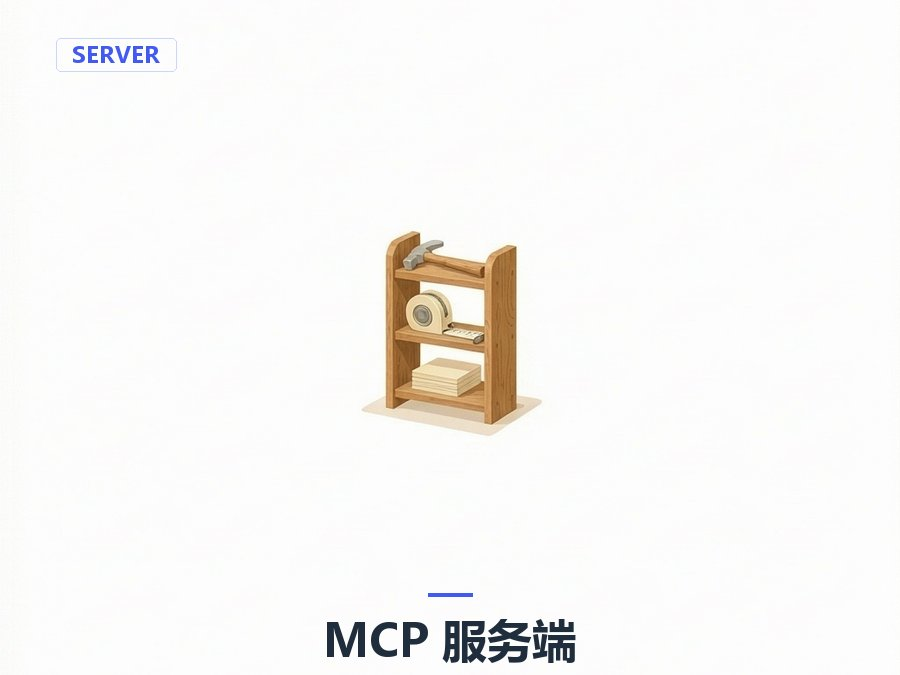
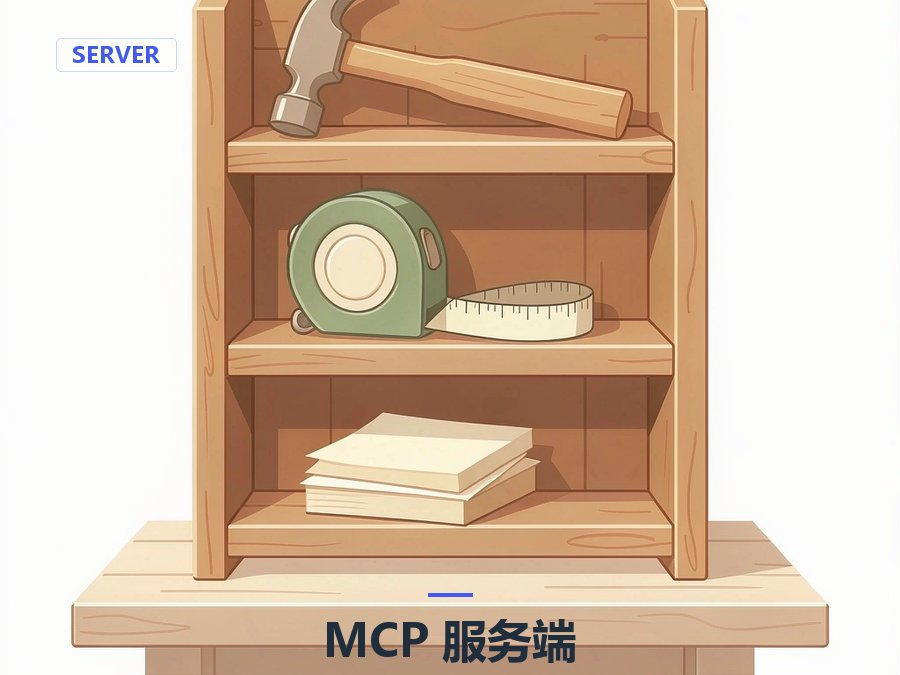
fix(tools): 封面模板改为主体突出、四周留可见背景边
原 STYLE 写 "generous empty space / wide margins on all sides"，加上 22 条条目自带的
"small subject centered with huge empty space"，模型一律把主体缩成画面中心一个小点，
四周全白。改为「plain light background with a clear band of background color around
the subject / subject centered and prominent with a balanced margin」，并清掉条目里
盖过 STYLE 的同类表述。

同时把默认生图模型换成 workbuddy/hunyuan-image-alpha（workbuddy-ai/hy-image-3.5 额度耗尽）。
重出 mcp-server / virtual-threads / multi-agent-worktree 三张封面。

diff --git a/tools/magpie-covers.py b/tools/magpie-covers.py
@@ -35,11 +35,12 @@ QUALITY = 85
 # 文字由脚本在本地合成（不交给模型画）——本地叠字字形一定正确，不会错字。
 STYLE = ('warm natural lifelike colors, earthy palette of wood brown, cream, beige, sage green, '
          'terracotta and soft warm whites, a soft cohesive palette, '
-         'clean bright background with generous empty space around the subject, '
+         'clean bright light background, the illustration set on a plain light background '
+         'with a clear band of background color around the subject on all four sides, '
          'minimal flat vector illustration, concrete recognizable objects in a clear real-world scene '
          '(a machine, a device, a tool, physical props), never abstract node graphs, arrows, or color-block patterns, '
-         'zoomed out wide shot, entire composition fully visible '
-         'inside the frame, centered with wide margins on all sides, nothing cropped, '
+         'clear wide composition, the subject centered and prominent with a balanced margin, '
+         'entire composition fully visible inside the frame, centered, nothing cropped, '
          'no full-image blue or purple wash, no cold cyan tones, no neon colors, no muddy gray, '
          'no 3d render, no photorealistic, no text, no letters, no watermark, no signature')
 
@@ -115,36 +116,36 @@ TEXTS = {
 }
 
 PROMPTS = {
-    'pi-agent-loop':    'minimal composition, a single small subject centered with very large empty margins on all four sides, a small golden gear with a smooth flywheel driving a tiny chain, an engine in motion concept, warm wood tones and cream background, ' + STYLE,
-    'pi-model-layer':    'minimal composition, a single small subject centered with very large empty margins on all four sides, a translator figure at a small desk working on one document, multi-format translation concept, warm wood tones and cream background, ' + STYLE,
+    'pi-agent-loop':    'minimal composition, a small golden gear with a smooth flywheel driving a tiny chain, an engine in motion concept, warm wood tones and cream background, ' + STYLE,
+    'pi-model-layer':    'minimal composition, a translator figure at a small desk working on one document, multi-format translation concept, warm wood tones and cream background, ' + STYLE,
     'pi-tool-pipeline':    'flat vector illustration of a neat workbench with a simple robotic arm holding a wrench above a small workpiece, a few hand tools (screwdriver, wrench, pliers) neatly arranged beside it, tool use concept, warm wood workbench tones, ' + STYLE,
     'pi-message-system':    'flat vector illustration of a single open envelope floating in the center of a plain background, slightly open to reveal a richly detailed inner document with colorful stamps and handwritten notes, a single centered subject with generous empty space around all edges, warm cream paper tones, ' + STYLE,
-    'pi-context-engineering':    'minimal composition, a single small subject centered with very large empty margins on all four sides, a paper funnel pressing a stack of loose documents down into one small neat summary card, context compression concept, warm cream paper tones, ' + STYLE,
-    'pi-session-tree':    'minimal composition, a small subject centered with huge empty space on all four sides, nothing near the frame edges, a single bare stylized tree with symmetrically branching wooden branches and small round warm-colored fruits (amber, terracotta, olive) hanging at each branch tip, growth and branching concept, on a pure white background, bright white, ' + STYLE,
-    'pi-extension-events':    'minimal composition, a small subject centered with huge empty space on all four sides, nothing near the frame edges, a small vintage wooden radio with a few hanging amber light bulbs connected by thin wires, signal and connection concept, warm amber glow, on a pure white background, bright white, ' + STYLE,
-    'pi-tui-rendering':    'minimal composition, a single small subject centered with very large empty margins on all four sides, a small old-style desktop computer with a green-screen display showing neat monochrome text lines on it, warm beige retro computer tones, ' + STYLE,
-    'pi-policy-gate':    'minimal composition, a small subject centered with huge empty space on all four sides, nothing near the frame edges, a sturdy small wooden gate with a brass padlock and a stack of stamped paper passes on a side table, access control and audit concept, warm brass and wood tones, on a pure white background, bright white, ' + STYLE,
-    'spring-filter-interceptor':    'minimal composition, a small subject centered with huge empty space on all four sides, nothing near the frame edges, a small wooden sieve with a mesh screen beside a small wooden turnstile gate, filtering and gating concept, warm wood and brass tones, on a pure white background, bright white, ' + STYLE,
-    'json-family-protocols':    'minimal composition, a small subject centered with huge empty space on all four sides, nothing near the frame edges, a wooden shelf with five small differently shaped glass jars, each jar holding a different kind of warm-colored small items (paper slips, wooden beads, brass gears, rubber stamps), sorting and comparing concept, on a pure white background, bright white, ' + STYLE,
-    'agent-state-machines':    'minimal composition, a small subject centered with huge empty space on all four sides, nothing near the frame edges, a small mechanical relay control panel with a few levers and warm indicator lights, deterministic control concept, on a pure white background, bright white, ' + STYLE,
-    'ai-critical-thinking':    'minimal composition, a small subject centered with huge empty space on all four sides, nothing near the frame edges, a person sitting at a small desk reading an open book under a warm desk lamp, deep thinking concept, warm wood desk tones, on a pure white background, bright white, ' + STYLE,
-    'cover-code-review':    'minimal composition, a small subject centered with huge empty space on all four sides, nothing near the frame edges, a paper checklist with a magnifying glass and a red rubber stamp resting on it, review concept, warm cream paper tones, on a pure white background, bright white, ' + STYLE,
-    'super-agent-designs':    'minimal composition, a small subject centered with huge empty space on all four sides, nothing near the frame edges, a small self-driving rover with sensors on a little track, autonomous system concept, warm metal and wood tones, on a pure white background, bright white, ' + STYLE,
-    'agents-going-async':    'minimal composition, a small subject centered with huge empty space on all four sides, nothing near the frame edges, a small control desk with one big screen and one small worker device side by side connected by a cable, coordination concept, warm wood desk tones, on a pure white background, bright white, ' + STYLE,
-    'design-patterns-creational':    'minimal composition, a small subject centered with huge empty space on all four sides, nothing near the frame edges, a small factory machine with a conveyor belt carrying small products off the end, creation concept, warm metal and wood tones, on a pure white background, bright white, ' + STYLE,
-    'agent-memory-components':    'minimal composition, a small subject centered with huge empty space on all four sides, nothing near the frame edges, a small cute robot at a small desk sorting a stack of memory cards into a wooden filing cabinet, agent memory organizing concept, warm wood cabinet tones and warm metal robot tones, on a pure white background, bright white, ' + STYLE,
-    'design-patterns-behavioral':    'minimal composition, a small subject centered with huge empty space on all four sides, nothing near the frame edges, a row of small brown birds perched side by side on a short wooden branch, coordinated group concept, warm wood branch tones, on a pure white background, bright white, ' + STYLE,
-    'cover-binary':    'minimal composition, a small subject centered with huge empty space on all four sides, nothing near the frame edges, a small brass balance scale with two pans holding tiny weights, searching and comparing concept, warm brass and wood tones, on a pure white background, bright white, ' + STYLE,
-    'cover-cipherlens':    'minimal composition, a small subject centered with huge empty space on all four sides, nothing near the frame edges, a small brass padlock with a key and a wooden lockbox, security concept, warm brass and wood tones, on a pure white background, bright white, ' + STYLE,
-    'cover-kmp':    'minimal composition, a small subject centered with huge empty space on all four sides, nothing near the frame edges, a magnifying glass examining a long strip of paper with small pattern marks, pattern matching concept, warm cream paper tones, on a pure white background, bright white, ' + STYLE,
-    'cover-quicksort':    'minimal composition, a small subject centered with huge empty space on all four sides, nothing near the frame edges, a row of wooden blocks sorted by height from short to tall on a table, sorting concept, warm wood block tones, on a pure white background, bright white, ' + STYLE,
-    'claude-docs-chaos-loop':    'minimal composition, a small subject centered with huge empty space on all four sides, nothing near the frame edges, a small cute robot holding a mallet testing a row of small wooden server boxes, one box rattling, stress testing concept, warm beige and wood tones, on a pure white background, bright white, ' + STYLE,
+    'pi-context-engineering':    'minimal composition, a paper funnel pressing a stack of loose documents down into one small neat summary card, context compression concept, warm cream paper tones, ' + STYLE,
+    'pi-session-tree':    'minimal composition, a single bare stylized tree with symmetrically branching wooden branches and small round warm-colored fruits (amber, terracotta, olive) hanging at each branch tip, growth and branching concept, on a pure white background, bright white, ' + STYLE,
+    'pi-extension-events':    'minimal composition, a small vintage wooden radio with a few hanging amber light bulbs connected by thin wires, signal and connection concept, warm amber glow, on a pure white background, bright white, ' + STYLE,
+    'pi-tui-rendering':    'minimal composition, a small old-style desktop computer with a green-screen display showing neat monochrome text lines on it, warm beige retro computer tones, ' + STYLE,
+    'pi-policy-gate':    'minimal composition, a sturdy small wooden gate with a brass padlock and a stack of stamped paper passes on a side table, access control and audit concept, warm brass and wood tones, on a pure white background, bright white, ' + STYLE,
+    'spring-filter-interceptor':    'minimal composition, a small wooden sieve with a mesh screen beside a small wooden turnstile gate, filtering and gating concept, warm wood and brass tones, on a pure white background, bright white, ' + STYLE,
+    'json-family-protocols':    'minimal composition, a wooden shelf with five small differently shaped glass jars, each jar holding a different kind of warm-colored small items (paper slips, wooden beads, brass gears, rubber stamps), sorting and comparing concept, on a pure white background, bright white, ' + STYLE,
+    'agent-state-machines':    'minimal composition, a small mechanical relay control panel with a few levers and warm indicator lights, deterministic control concept, on a pure white background, bright white, ' + STYLE,
+    'ai-critical-thinking':    'minimal composition, a person sitting at a small desk reading an open book under a warm desk lamp, deep thinking concept, warm wood desk tones, on a pure white background, bright white, ' + STYLE,
+    'cover-code-review':    'minimal composition, a paper checklist with a magnifying glass and a red rubber stamp resting on it, review concept, warm cream paper tones, on a pure white background, bright white, ' + STYLE,
+    'super-agent-designs':    'minimal composition, a small self-driving rover with sensors on a little track, autonomous system concept, warm metal and wood tones, on a pure white background, bright white, ' + STYLE,
+    'agents-going-async':    'minimal composition, a small control desk with one big screen and one small worker device side by side connected by a cable, coordination concept, warm wood desk tones, on a pure white background, bright white, ' + STYLE,
+    'design-patterns-creational':    'minimal composition, a small factory machine with a conveyor belt carrying small products off the end, creation concept, warm metal and wood tones, on a pure white background, bright white, ' + STYLE,
+    'agent-memory-components':    'minimal composition, a small cute robot at a small desk sorting a stack of memory cards into a wooden filing cabinet, agent memory organizing concept, warm wood cabinet tones and warm metal robot tones, on a pure white background, bright white, ' + STYLE,
+    'design-patterns-behavioral':    'minimal composition, a row of small brown birds perched side by side on a short wooden branch, coordinated group concept, warm wood branch tones, on a pure white background, bright white, ' + STYLE,
+    'cover-binary':    'minimal composition, a small brass balance scale with two pans holding tiny weights, searching and comparing concept, warm brass and wood tones, on a pure white background, bright white, ' + STYLE,
+    'cover-cipherlens':    'minimal composition, a small brass padlock with a key and a wooden lockbox, security concept, warm brass and wood tones, on a pure white background, bright white, ' + STYLE,
+    'cover-kmp':    'minimal composition, a magnifying glass examining a long strip of paper with small pattern marks, pattern matching concept, warm cream paper tones, on a pure white background, bright white, ' + STYLE,
+    'cover-quicksort':    'minimal composition, a row of wooden blocks sorted by height from short to tall on a table, sorting concept, warm wood block tones, on a pure white background, bright white, ' + STYLE,
+    'claude-docs-chaos-loop':    'minimal composition, a small cute robot holding a mallet testing a row of small wooden server boxes, one box rattling, stress testing concept, warm beige and wood tones, on a pure white background, bright white, ' + STYLE,
     'agent-session-concurrency':    'flat vector illustration of a narrow single-plank wooden footbridge over a small dry ditch, with one small wooden handcart waiting at each end facing the bridge, the two carts clearly too wide to pass each other, a few loose planks and a coil of rope on the ground beside it, single-file access concept, warm oak and terracotta tones, ' + STYLE,
     'spring-transaction-propagation':    'flat vector illustration of a small wooden balance scale with two pans, one pan holding a stack of paper ledgers and a brass pen, the other pan holding a few brass coins, the scale resting on a plain surface, commitment concept, warm wood and brass tones, ' + STYLE,
     'mcp-transports':    'flat vector illustration of a short open wooden pipe with a folded paper document sliding in through one end and sliding out the opposite end, a small brass toggle beside the pipe, two-way message exchange concept, warm wood and brass tones, ' + STYLE,
-    'mcp-server':    'minimal composition, a small subject centered with huge empty space on all four sides, nothing near the frame edges, a three-tier wooden tool rack on a workbench holding a hammer on the top shelf, a coiled measuring tape on the middle shelf and a small stack of paper sticky notes on the bottom shelf, three kinds of capability neatly organized concept, warm wood and paper tones, on a pure white background, bright white, ' + STYLE,
-    'virtual-threads':    'minimal composition, a small subject centered with huge empty space on all four sides, nothing near the frame edges, one small wooden dock with many tiny wooden rowboats tied along it side by side and only two larger boats moored further out, plenty of room at the dock concept, warm wood and cream tones, on a pure white background, bright white, ' + STYLE,
-    'multi-agent-worktree':    'minimal composition, a small subject centered with huge empty space on all four sides, nothing near the frame edges, two separate small wooden workbenches placed side by side each with its own vise and hand tools, sharing one open toolbox between them, separate workspaces sharing supplies concept, warm oak and brass tones, on a pure white background, bright white, ' + STYLE,
+    'mcp-server':    'flat vector illustration on a pure white background, a three-tier wooden tool rack resting on a pale wooden workbench, the rack centered and taking up the middle of the frame, a clear margin of white background around all four sides, nothing touching the frame edges, a hammer resting on the top shelf, a coiled measuring tape on the middle shelf, a small neat stack of paper sticky notes on the bottom shelf, three kinds of capability neatly organized concept, warm wood and paper tones, ' + STYLE,
+    'virtual-threads':    'flat vector illustration on a pure white background, a wooden dock centered with many small wooden rowboats tied side by side along it in a neat row, and only two larger wooden boats moored further out beyond the dock, a clear margin of white background around all four sides, nothing touching the frame edges, crowded dock with plenty of room concept, warm wood and cream tones, ' + STYLE,
+    'multi-agent-worktree':    'flat vector illustration on a pure white background, two small wooden workbenches placed side by side, each with its own vise and hand tools, an open toolbox sitting between them, the benches centered with a clear margin of white background around all four sides, nothing touching the frame edges, separate workspaces sharing supplies concept, warm oak and brass tones, ' + STYLE,
 }
 
 CAPTION_FONT = 'C:/Windows/Fonts/msyhbd.ttc'
@@ -243,7 +244,7 @@ def main():
                     warn.append('构图贴边(留白%.1f%%)' % (margin * 100))
                 print('OK   %-30s %s %3dKB 亮度%.0f 留白%.0f%%%s%s%s' % (
                     dest.replace('\\', '/'), size, kb, mean, margin * 100,
-                    ('  ⚠ ' + '、'.join(warn) + '，改 prompt 重跑该张') if warn else '',
+                    ('  [注意] ' + '、'.join(warn) + '，改 prompt 重跑该张') if warn else '',
                     ('  小标题: ' + TEXTS.get(slug, '')) if TEXTS.get(slug) else '',
                     ('  标签: ' + LABELS.get(slug, '')) if LABELS.get(slug) else ''))
             except Exception as e:

diff --git a/tools/magpie_mcp.py b/tools/magpie_mcp.py
@@ -17,8 +17,9 @@ EXE = r"D:\dev-environment\tool\magpie\magpie-windows-amd64.exe"
 PROTOCOL = "2025-06-18"
 
 # 默认生图模型。2026-11 实测：loomy/* 全部 406（账号无生图权限），openrouter/* 全部 402
-# （需余额 ≥ $1），workbuddy-ai/hy-image-3.5 与 workbuddy/hunyuan-image-alpha 可用。
-DEFAULT_MODEL = "workbuddy-ai/hy-image-3.5"
+# （需余额 ≥ $1）。workbuddy-ai/hy-image-3.5 曾可用，2026-11-26 额度耗尽（429）；
+# workbuddy/hunyuan-image-alpha 当前可用。
+DEFAULT_MODEL = "workbuddy/hunyuan-image-alpha"
 
 class MagpieImage:
     def __init__(self, exe=EXE):
